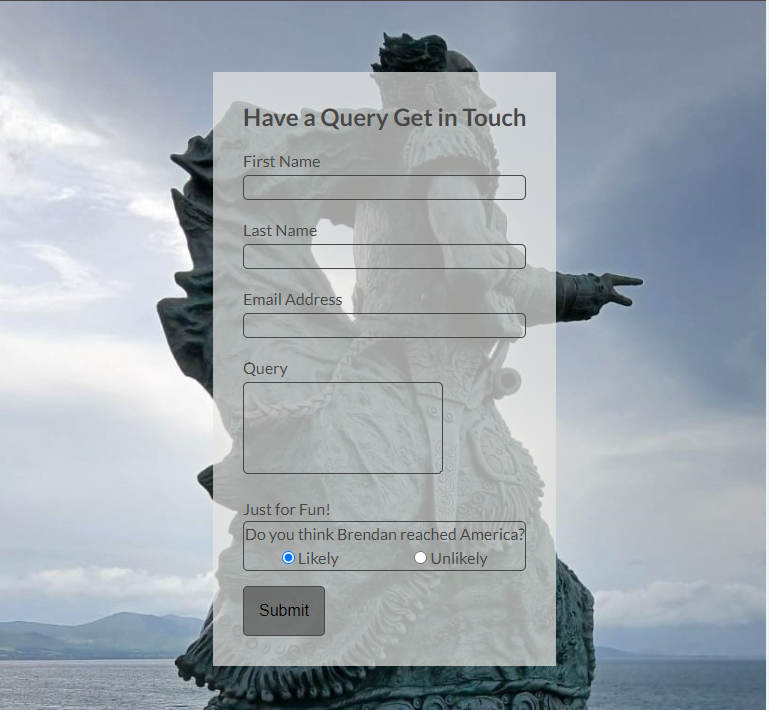
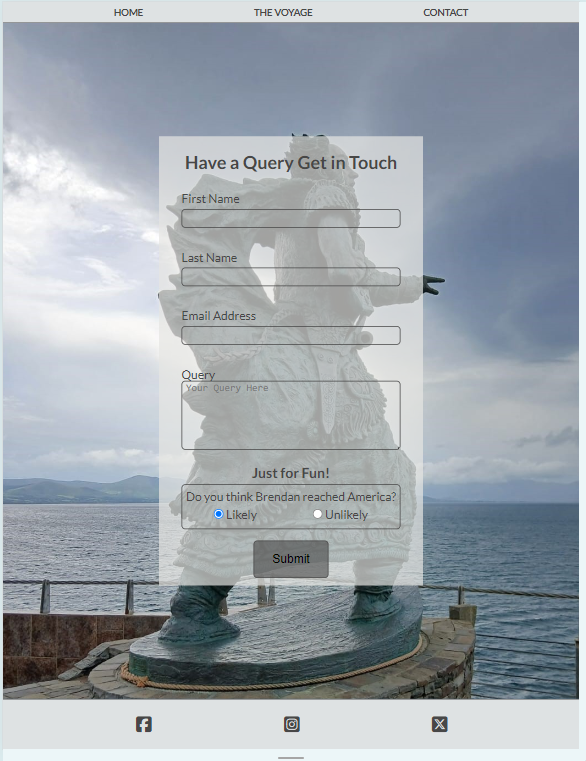
updated readme file

diff --git a/README.md b/README.md
@@ -1,9 +1,9 @@
 # Brendan the Navigator
 Brendan the Navigator is a site that hopes to introduce people to the man behind Saint Brendan, the fearless adventurer with a love for the travelling on the sea.
-To bring this figure and his lengendary voyage into the mainstream and make him appealing to all and not just people of faith. 
+This website aims to bring this figure and his lengendary voyage into the mainstream and make him appealing to all and not just people of faith. 
 
 ![Wireframe](docs/wireframes/brendanwireframes.pdf)
-![Responsive Design](docs/images/responsivevoyage.PNG)
+![Responsive Design](docs/images/responsivebright.PNG)
 
 ## Features 
 I included the following features on my website.
@@ -17,66 +17,72 @@ I included the following features on my website.
   - This section introduces the user to Brendan the Navigator with an image of his statue which stands at Fenit harbour in Kerry to set the scene.
   - This section includes a responsive timeline of the history of Brendan the Navigator.
 ![Landing Page](docs/images/landingimage.PNG)
+- __Timeline__
+  - The homepage timeline presents a short history of Brendan the Navigator. 
+  - The timeline contains links to the Voyage page where users and read more about Brendan. 
+  - It also contains links to external sites with further information that open in a new browser tab.
+  - The timeline is responsive and will rearrange content for different device sizes.
+![Timeline](docs/images/timeline.PNG)    
 - __The Voyage__
-  - The voyage section details Brendans famous seven year voyage, pictures are used to support the content. 
-  - This should encourage the user to want to learn more about Brendan and his famous voyage. Links are provided to external sites where the user can find more information.
+  - The voyage page details Brendans famous seven year voyage.
+  - Pictures are used to support the content to paint a picture for the user. 
+  - Links are provided to external sites where the user can find more information.
 ![Voyage Page](docs/images/voyage.PNG)
 - __Contact Page__
-  - This page will allow the user to contact the page with any queries. The user will be asked to submit their full name and email address.
-  - The user will also have the opportunity to provide feedback in the form of a vote button. They can give their opinion on whether Brendan reached America or not.
+  - This page will allow the user to contact the page with any queries or feedback. 
+  - The user will be asked to submit their full name and email address.
+  - The user will also have the opportunity to vote on whether the believe Brendan reached America or not.
 ![Contact](docs/images/form.PNG)
 - __The Footer__ 
-  - The footer section includes links to the relevant social media sites for Brendan the Navigator. The links will open to a new tab to allow easy navigation for the user. 
+  - The footer section includes links to the relevant social media sites for Brendan the Navigator. 
+  - The links will open to a new tab to allow easy navigation for the user. 
   - The footer is valuable to the user as it encourages them to keep connected via social media.
 ![Footer](docs/images/footer.PNG)
 
 ### Features Left to Implement
-- As a future add on, a feature that would display the results on the vote button would be beneficial. Shown as a graphic to illustrate what percentage of users believe Brendan reached America versus the percentage that believe he didn't.
+- As a future add on, a feature that would display the results on the vote button. Shown as a graphic to illustrate what percentage of users believe Brendan reached    
+  America versus the percentage that believe he didn't.
+- An interactive map of Brendans 7 year voyage would be a great feature to support the existing content.
+- I think on very large devices a horizontal implementation of the timeline could make better use of screen space.
 ## Testing
-- This page has been tested on different browsers such as chrome, firefox and samsung internet browser.
+- This page has been tested on different browsers such as Chrome, Firefox and Microsoft Egde.
 - Responsiveness and functionality have been tested on all screen sizes using the dev tools device toolbar.
-- All links have been tested.
+- All links internal and external have been tested and are working.
 - I have tested the contact form validation for text and email input fields. 
 - The submit button also posts the data to the code institute server. 
-- I used lighthouse to test the websites performance and .. 
+- All pages passed lighthouse testing for performance, accessibility, best practices and search engine optimization. 
 
 ## Bugs Encountered
 - When I first deployed the website to GitHub, I discovered that the social media links didn't work. 
   This was due to not enclosing the icons within the anchor opening and closing tags.
 - I also discovered that my radio buttons didn't behave as expected. 
-  This was due to me assigning unique ids to the buttons, I resolved this by giving them both the same id.
-- I encountered problems when applying the media query to change the layout of the timeline for larger screens. The timeline ruler and containers were displaying correctly, the problem was that 
-  the exisiting circles for some containers were not being re organised so I had duplicate circles. With some assistance from tutor support I added a line of code left;auto to set the offending items to default.
+  This was due to me assigning unique ids to the buttons, this was resolved by giving them both the same id.
+- I encountered problems when applying the media query to change the layout of the timeline for larger screens. 
+  The timeline ruler and containers were displaying correctly, the problem was that the exisiting circles for some containers were not being re organised so I had duplicate circles. With some assistance from tutor support I added a line of code left;auto to set the items to default.
 
-In this section, you need to convince the assessor that you have conducted enough testing to legitimately believe that the site works well. Essentially, in this part you will want to go over all of your project’s features and ensure that they all work as intended, with the project providing an easy and straightforward way for the users to achieve their goals.
-In addition, you should mention in this section how your project looks and works on different browsers and screen sizes.
-You should also mention in this section any interesting bugs or problems you discovered during your testing, even if you haven't addressed them yet.
-If this section grows too long, you may want to split it off into a separate file and link to it from here.
-
-Initial testing once main structure was in place on both HTML and CSS validators. Errors reported and resolved before moving on to resposive design developement.
 ### Validator Testing 
 - HTML
-  - No errors were returned when passing through the official [W3C validator](https://validator.w3.org/nu/?doc=https%3A%2F%2Fcode-institute-org.github.io%2Flove-running-2.0%2Findex.html)
+  - No errors were returned when passing through the official [W3C validator](https://validator.w3.org/)
+  - One warning was returned as detailed below in the unfixed bugs section.
 - CSS
-  - No errors were found when passing through the official [(Jigsaw) validator](https://jigsaw.w3.org/css-validator/validator?uri=https%3A%2F%2Fvalidator.w3.org%2Fnu%2F%3Fdoc%3Dhttps%253A%252F%252Fcode-institute-org.github.io%252Flove-running-2.0%252Findex.html&profile=css3svg&usermedium=all&warning=1&vextwarning=&lang=en#css)
+  - No errors were found when passing through the official [(Jigsaw) validator](https://jigsaw.w3.org/)
 ### Unfixed Bugs
-You will need to mention unfixed bugs and why they were not fixed. This section should include shortcomings of the frameworks or technologies used. Although time can be a big variable to consider, paucity of time and difficulty understanding implementation is not a valid reason to leave bugs unfixed. 
-No h2 - h6 elements used in section returned a warning. 
+- When running the voyage.html code through the validator it returns the following warning.
+  ![Validator Error](docs/images/validatorwarning.PNG)
+  No headings are needed in this section so I have left it for now.
+ 
 ## Deployment
-This section should describe the process you went through to deploy the project to a hosting platform (e.g. GitHub) 
 - The site was deployed to GitHub pages. The steps to deploy are as follows: 
-  - In the GitHub repository, navigate to the Settings tab 
-  - From the source section drop-down menu, select the Master Branch
+  - In the GitHub repository, navigate to the Settings tab. 
+  - From the source section drop-down menu, select the Master Branch.
   - Once the master branch has been selected, the page will be automatically refreshed with a detailed ribbon display to indicate the successful deployment. 
-The live link can be found here - https://lorrainescanlon.github.io/brendan-the-navigator/
+  - The live link can be found here - https://lorrainescanlon.github.io/brendan-the-navigator/
 ## Credits 
-In this section you need to reference where you got your content, media and extra help from. It is common practice to use code from other repositories and tutorials, however, it is important to be very specific about these sources to avoid plagiarism. 
-You can break the credits section up into Content and Media, depending on what you have included in your project.
+The following is a list of resources I used for this website.
 ### Content 
 - I used Wikipedia https://en.wikipedia.org/wiki/Brendan_the_Navigator as a content source.
 - I used Dingle-Peninsula https://dingle-peninsula.ie/stories-2/49-blog-from-the-dingle-peninsula/251-st-brendan-the-navigator-s-departure-from-brandon-creek.html as a content source.
 - I used Irish Culture and Customs https://www.irishcultureandcustoms.com/ASaints/BrendanNav.html as a content source.
-
 ### Media
 - The Statue and Brandon Creek images are my own.
 - The Sea image used is from Unsplash by Ulrike Donohue.
@@ -84,8 +90,9 @@ You can break the credits section up into Content and Media, depending on what y
 - The Volcano image used is from Pixabay by Julius H.
 - The Iceberg image used is from Pixabay by Lurens.
 - The Ship image used is from Pixabay by the user dp1616.
-- The compass favicon was taken from https://favicon.io/.com
+- The compass favicon was taken from [Favicon] https://favicon.io/.com
 - The icons in the footer were taken from [Font Awesome](https://fontawesome.com/)
 ### Code
- - I researched how to implement the timeline on W3Schools. I used the instructions at the following link as a basis for this feature https://www.w3schools.com/howto/howto_css_timeline.asp This code creates a split timeline that then reconfigures to become a single sided timeline. I was using the revserse approach as I developed the mobile site first and then added media queries to split the timeline for larger screens so I chopped and changed the code quiet a bit to get the effect I was looking for.
+ - I researched how to implement the timeline on W3Schools. I used the instructions at the following link as a basis for this feature https://www.w3schools.com/howto/howto_css_timeline.asp 
+   This code creates a split timeline that then reconfigures to become a single sided timeline. I was using the revserse approach as I developed the mobile site first and then added media queries to split the timeline for larger screens so I chopped and changed the code quiet a bit to get the effect I was looking for.
 
